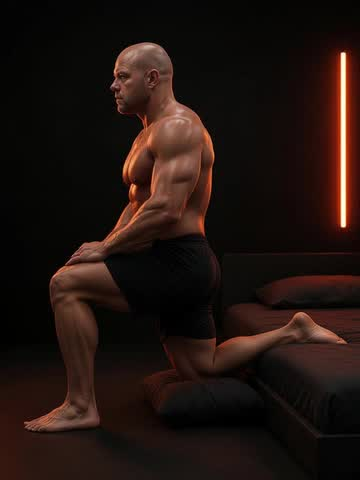
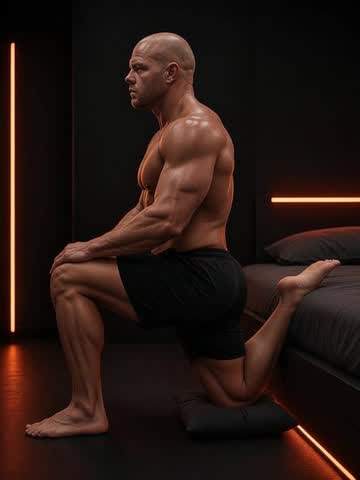
Reshoot the couch stretch at the bed edge (#11)

diff --git a/test/logic.test.js b/test/logic.test.js
@@ -110,7 +110,7 @@ test("weekly json stays wired together", () => {
   assert.match(css, /\.day-hero[\s\S]*object-fit:\s*cover;/);
   assert.match(css, /\.day-hero[\s\S]*object-position:\s*center 25%;/);
   const sw = readFileSync("sw.js", "utf8");
-  assert.match(sw, /boets-v13/);
+  assert.match(sw, /boets-v14/);
   assert.match(app, /"lat-raise": "lateral-raise-machine\.mp4"/);
   assert.match(app, /"z-lat": "side-lateral\.mp4"/);
   assert.match(app, /"lat-fri": "side-lateral\.mp4"/);

diff --git a/sw.js b/sw.js
@@ -1,4 +1,4 @@
-const CACHE = "boets-v13";
+const CACHE = "boets-v14";
 const PRECACHE = [
   "./",
   "./index.html",
